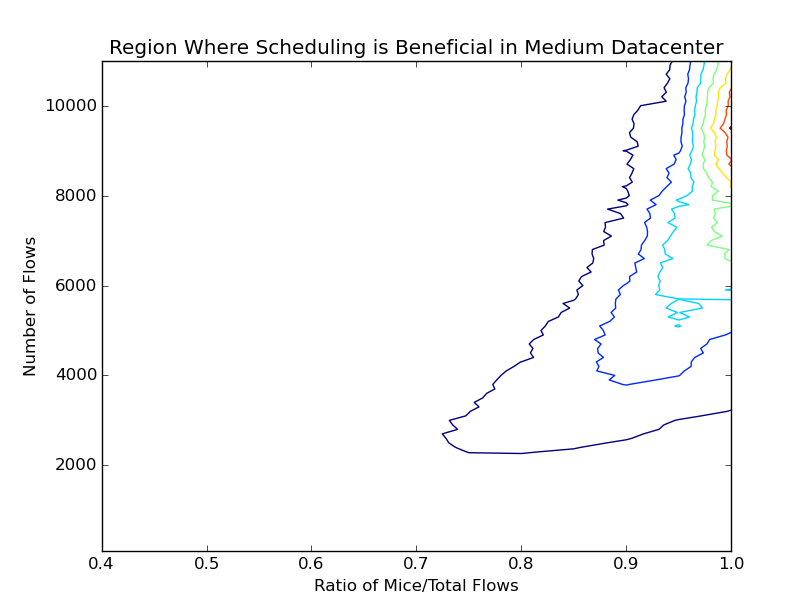
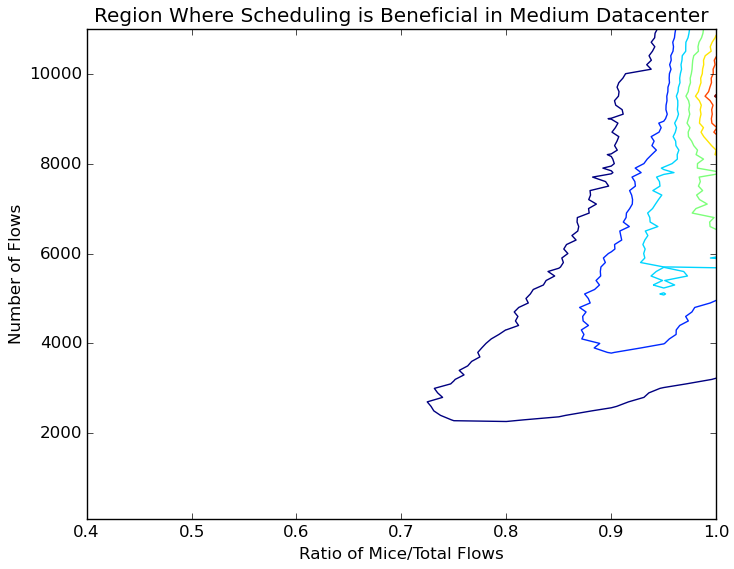
Final commit

Changed region(s): [[0.0, 0.0, 1.0, 0.9859]]

diff --git a/report/evaluation.tex b/report/evaluation.tex
@@ -39,15 +39,15 @@ We can also test our system in a real-world setting by setting up a small datace
 
 \subsection{Results}
 
-\begin{figure}
+\begin{figure*}
 	\centering
-	\includegraphics[width=\columnwidth]{crit_plot.png}
+	\includegraphics[width=1.5\columnwidth]{crit_plot.png}
 	\caption{Plot of number of critical events observed in scheduling and no
     scheduling for varying numbers of flows and ratios between mice and total
     flows. For each flow and ratio value, scheduling consistently results in
     either an equal or smaller number of critical events.}
 	\label{fig:critplt}
-\end{figure}
+\end{figure*}
 
 \begin{figure}
 	\centering
